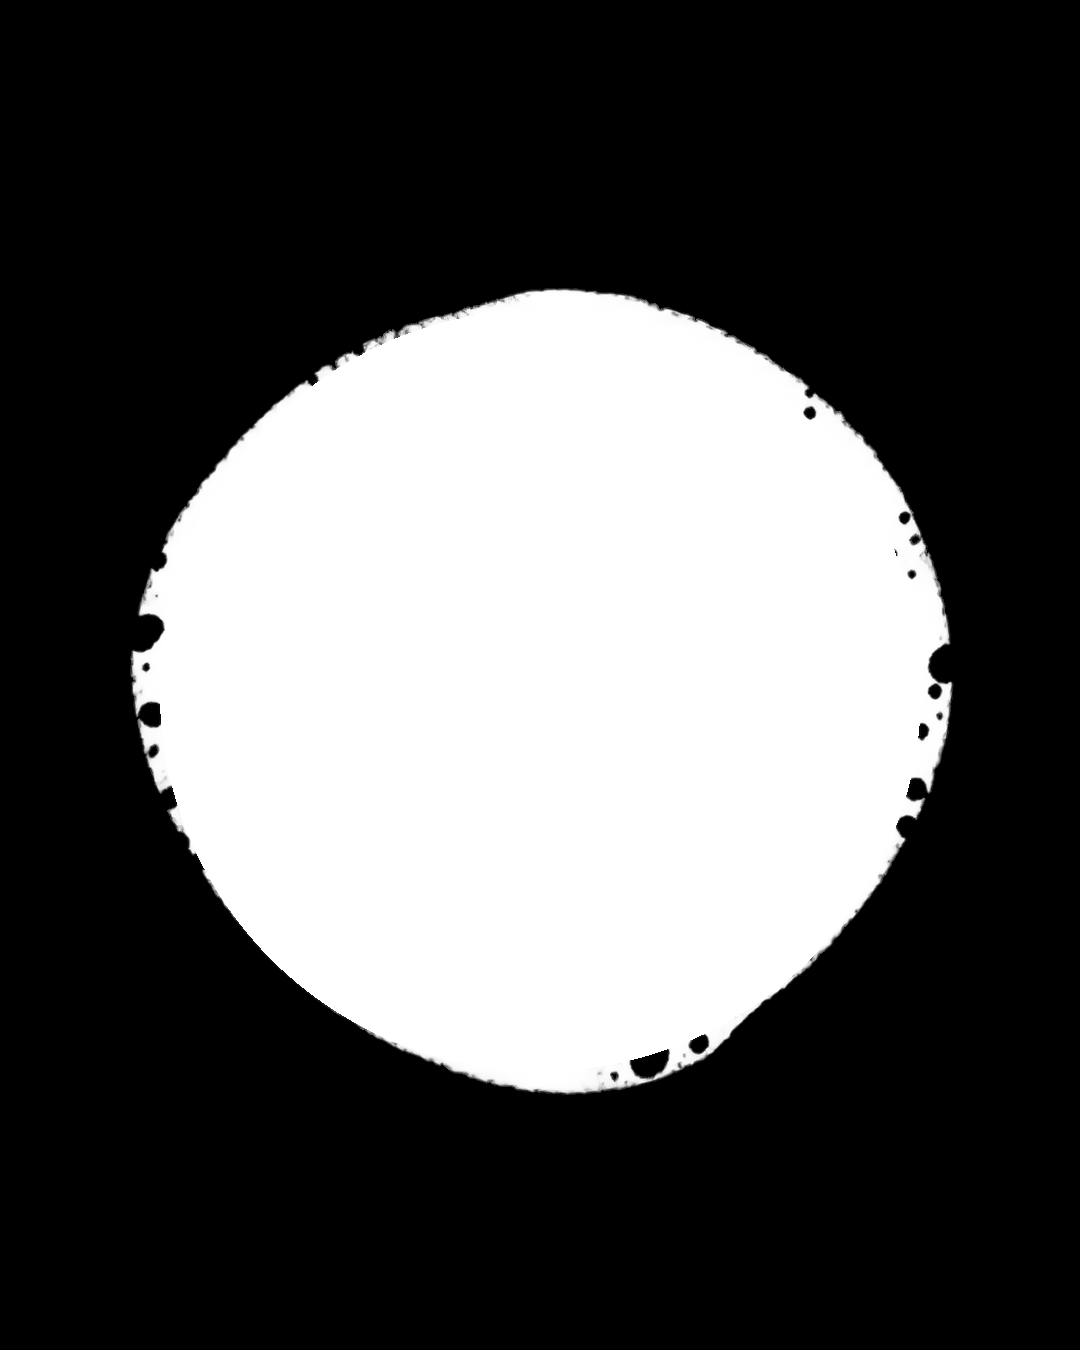
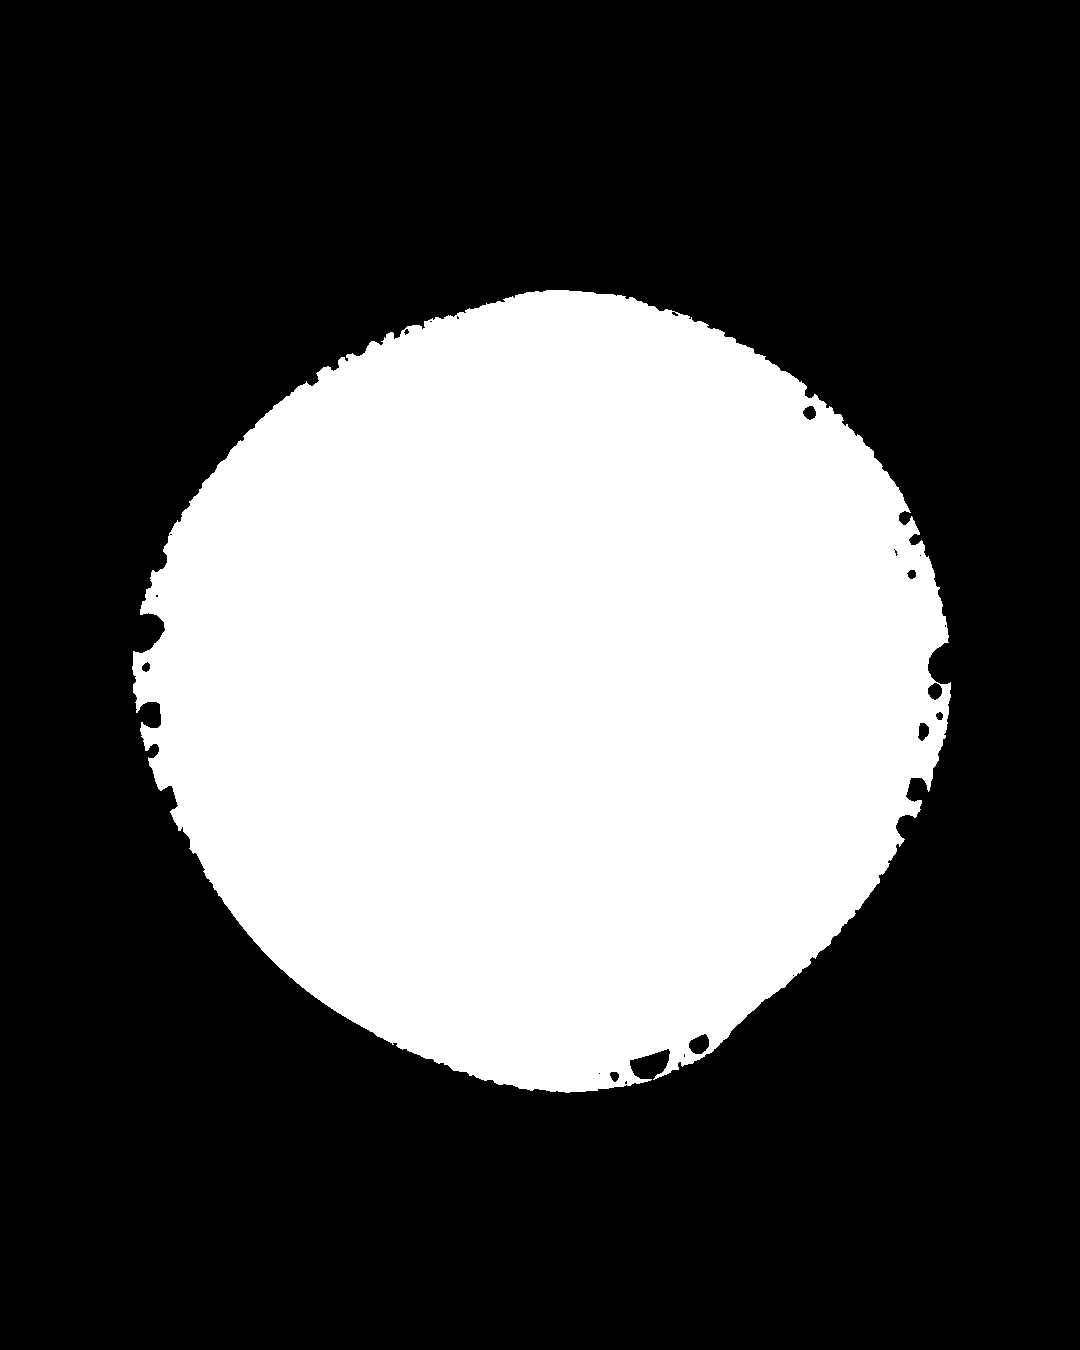
Add files via upload

diff --git a/app.js b/app.js
@@ -34,10 +34,10 @@ const frameImages = {};
 const maskImages = {};
 for (const key of Object.keys(sizes)) {
   const img = new Image();
-  img.src = sizes[key].frame;
+  img.src = sizes[key].frame + '?v=5';
   frameImages[key] = img;
   const mask = new Image();
-  mask.src = sizes[key].frame.replace('.png', '-mask.png');
+  mask.src = sizes[key].frame.replace('.png', '-mask.png') + '?v=5';
   maskImages[key] = mask;
 }
 
@@ -69,8 +69,10 @@ function drawPhoto(targetCtx, w, h) {
 function drawClippedPhoto(targetCtx, w, h) {
   if (!photo) return;
   const mask = maskImages[mode];
+  // Never draw the photo unmasked. During image loading, leaving it
+  // unmasked causes the photo to briefly/incorrectly appear outside
+  // the frame. Wait for the exact opening mask instead.
   if (!mask || !mask.complete || !mask.naturalWidth) {
-    drawPhoto(targetCtx, w, h);
     return;
   }
   const off = document.createElement('canvas');
